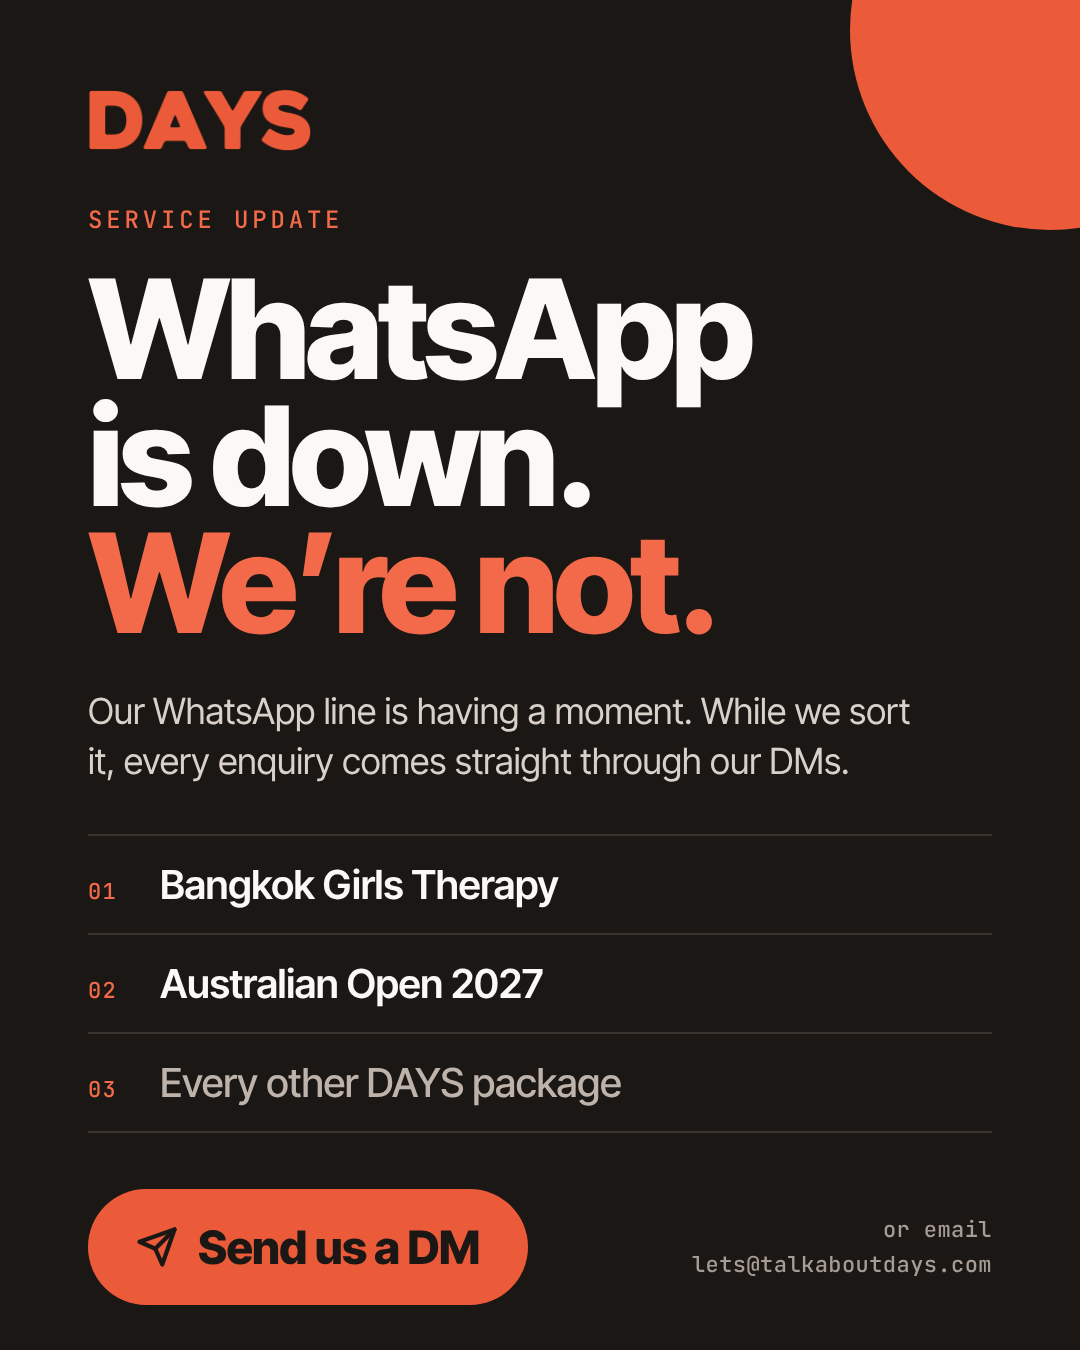
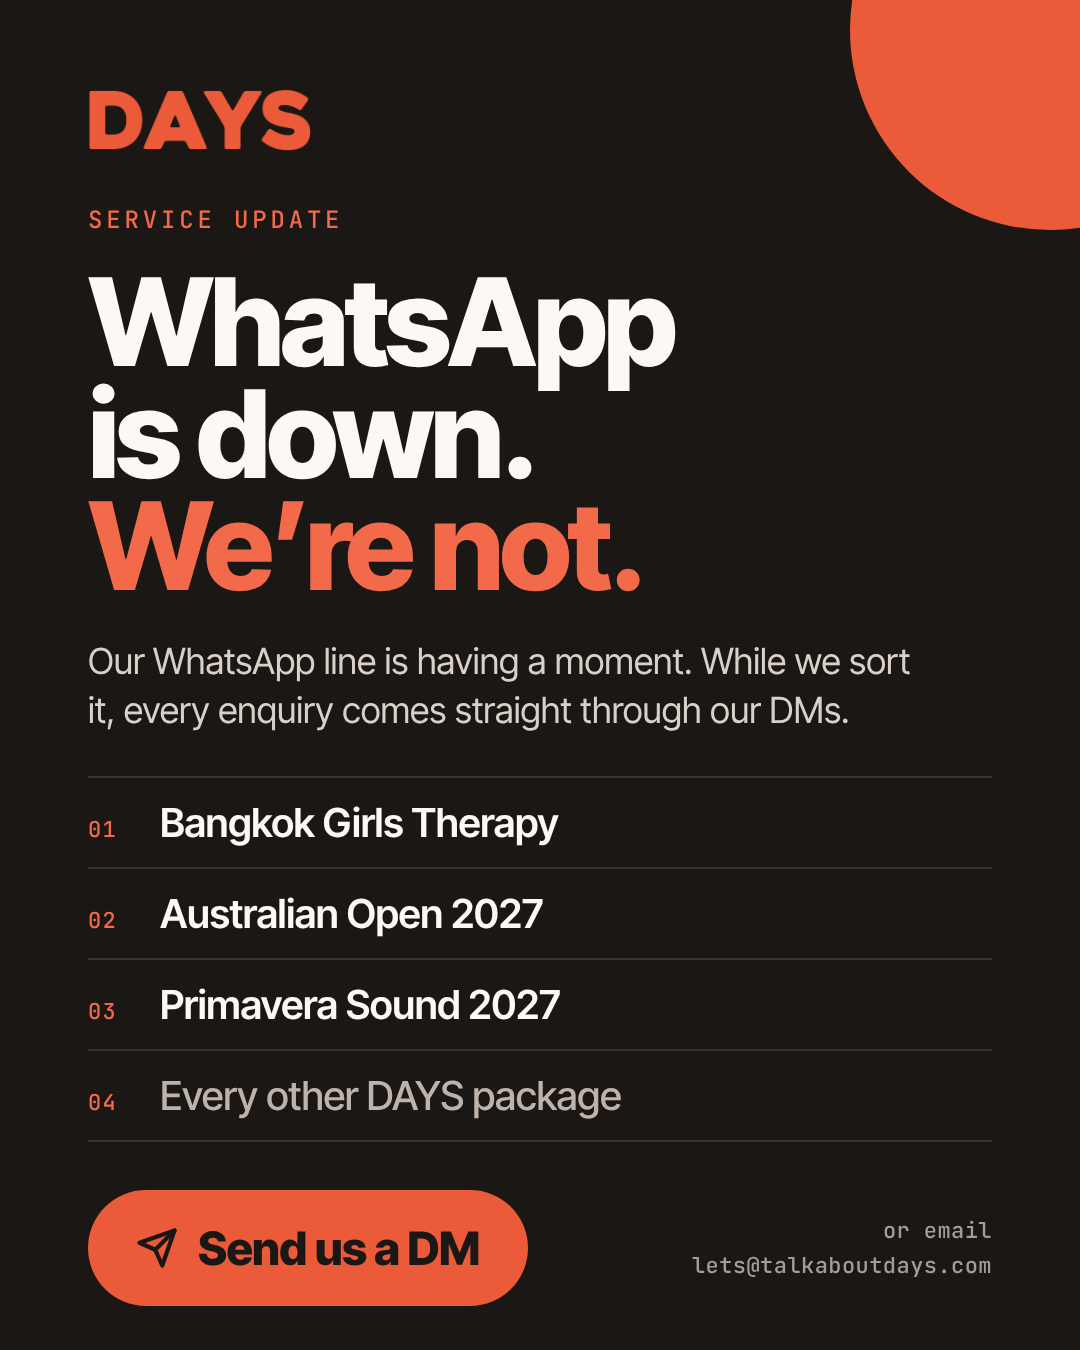
WhatsApp announcement: add Primavera Sound 2027
Claude-Session: https://claude.ai/code/session_01Eb5aT7KoUmwsy5FBQqVP4f

diff --git a/announcements/whatsapp-outage/announcement.html b/announcements/whatsapp-outage/announcement.html
@@ -7,7 +7,7 @@
 body{background:#777;font-family:"Inter Tight",system-ui,sans-serif;color:var(--paper)}
 .frame{position:relative;background:var(--ink);overflow:hidden;display:flex;flex-direction:column}
 .feed{width:1080px;height:1350px;padding:88px 88px 80px}
-.story{width:1080px;height:1920px;padding:200px 96px 280px}
+.story{width:1080px;height:1920px;padding:150px 96px 320px}
 .frame::before{content:"";position:absolute;right:-170px;top:-170px;width:400px;height:400px;border-radius:50%;background:var(--orange)}
 .story::before{right:-200px;top:-60px;width:480px;height:480px}
 .top{position:relative;margin-bottom:56px;display:flex;justify-content:space-between;align-items:flex-start}
@@ -16,20 +16,20 @@ body{background:#777;font-family:"Inter Tight",system-ui,sans-serif;color:var(--
 .tag i{width:12px;height:12px;border-radius:50%;background:var(--orange);display:inline-block;animation:none}
 .body{position:relative;margin-top:auto}
 .eyebrow{font:500 24px/1 "JetBrains Mono",monospace;letter-spacing:.16em;text-transform:uppercase;color:var(--orange-d);margin-bottom:34px}
-h1{font-weight:800;font-size:138px;line-height:.92;letter-spacing:-.035em}
+h1{font-weight:800;font-size:122px;line-height:.92;letter-spacing:-.035em}
 h1 em{font-style:normal;color:var(--orange-d)}
-.lede{margin-top:40px;font-size:36px;line-height:1.38;color:#D9D1C9;max-width:840px}
-.list{margin-top:48px;border-top:2px solid var(--line)}
-.row{display:flex;align-items:baseline;gap:28px;padding:24px 0;border-bottom:2px solid var(--line);font-weight:600;font-size:40px;letter-spacing:-.01em}
+.lede{margin-top:34px;font-size:36px;line-height:1.38;color:#D9D1C9;max-width:840px}
+.list{margin-top:40px;border-top:2px solid var(--line)}
+.row{display:flex;align-items:baseline;gap:28px;padding:20px 0;border-bottom:2px solid var(--line);font-weight:600;font-size:40px;letter-spacing:-.01em}
 .row span{font:500 22px/1 "JetBrains Mono",monospace;color:var(--orange-d);letter-spacing:.06em;width:44px}
 .row.more{color:#BDB3AA;font-weight:500}
-.cta{margin-top:56px;display:flex;align-items:center;justify-content:space-between;gap:24px}
+.cta{margin-top:48px;display:flex;align-items:center;justify-content:space-between;gap:24px}
 .btn{background:var(--orange);color:var(--ink);font-weight:800;font-size:46px;letter-spacing:-.015em;padding:30px 48px;border-radius:999px;display:inline-flex;align-items:center;gap:20px}
 .btn svg{width:42px;height:42px}
 .alt{font:500 22px/1.6 "JetBrains Mono",monospace;color:var(--muted);text-align:right;letter-spacing:.02em}
-.story h1{font-size:158px}
+.story h1{font-size:150px}
 .story .lede{font-size:42px}
-.story .row{font-size:46px;padding:30px 0}
+.story .row{font-size:46px;padding:26px 0}
 .story .cta{flex-direction:column;align-items:flex-start;gap:40px;margin-top:72px}
 .story .btn{font-size:54px;padding:36px 60px}
 .story .alt{text-align:left;font-size:26px}
@@ -46,7 +46,8 @@ h1 em{font-style:normal;color:var(--orange-d)}
     <div class="list">
       <div class="row"><span>01</span>Bangkok Girls Therapy</div>
       <div class="row"><span>02</span>Australian Open 2027</div>
-      <div class="row more"><span>03</span>Every other DAYS package</div>
+      <div class="row"><span>03</span>Primavera Sound 2027</div>
+      <div class="row more"><span>04</span>Every other DAYS package</div>
     </div>
     <div class="cta">
       <div class="btn"><svg viewBox="0 0 24 24" fill="none" stroke="currentColor" stroke-width="2.4" stroke-linecap="round" stroke-linejoin="round"><path d="M22 2 11 13"/><path d="M22 2 15 22l-4-9-9-4 20-7z"/></svg>Send us a DM</div>
@@ -68,7 +69,8 @@ h1 em{font-style:normal;color:var(--orange-d)}
     <div class="list">
       <div class="row"><span>01</span>Bangkok Girls Therapy</div>
       <div class="row"><span>02</span>Australian Open 2027</div>
-      <div class="row more"><span>03</span>Every other DAYS package</div>
+      <div class="row"><span>03</span>Primavera Sound 2027</div>
+      <div class="row more"><span>04</span>Every other DAYS package</div>
     </div>
     <div class="cta">
       <div class="btn"><svg viewBox="0 0 24 24" fill="none" stroke="currentColor" stroke-width="2.4" stroke-linecap="round" stroke-linejoin="round"><path d="M22 2 11 13"/><path d="M22 2 15 22l-4-9-9-4 20-7z"/></svg>Send us a DM</div>
